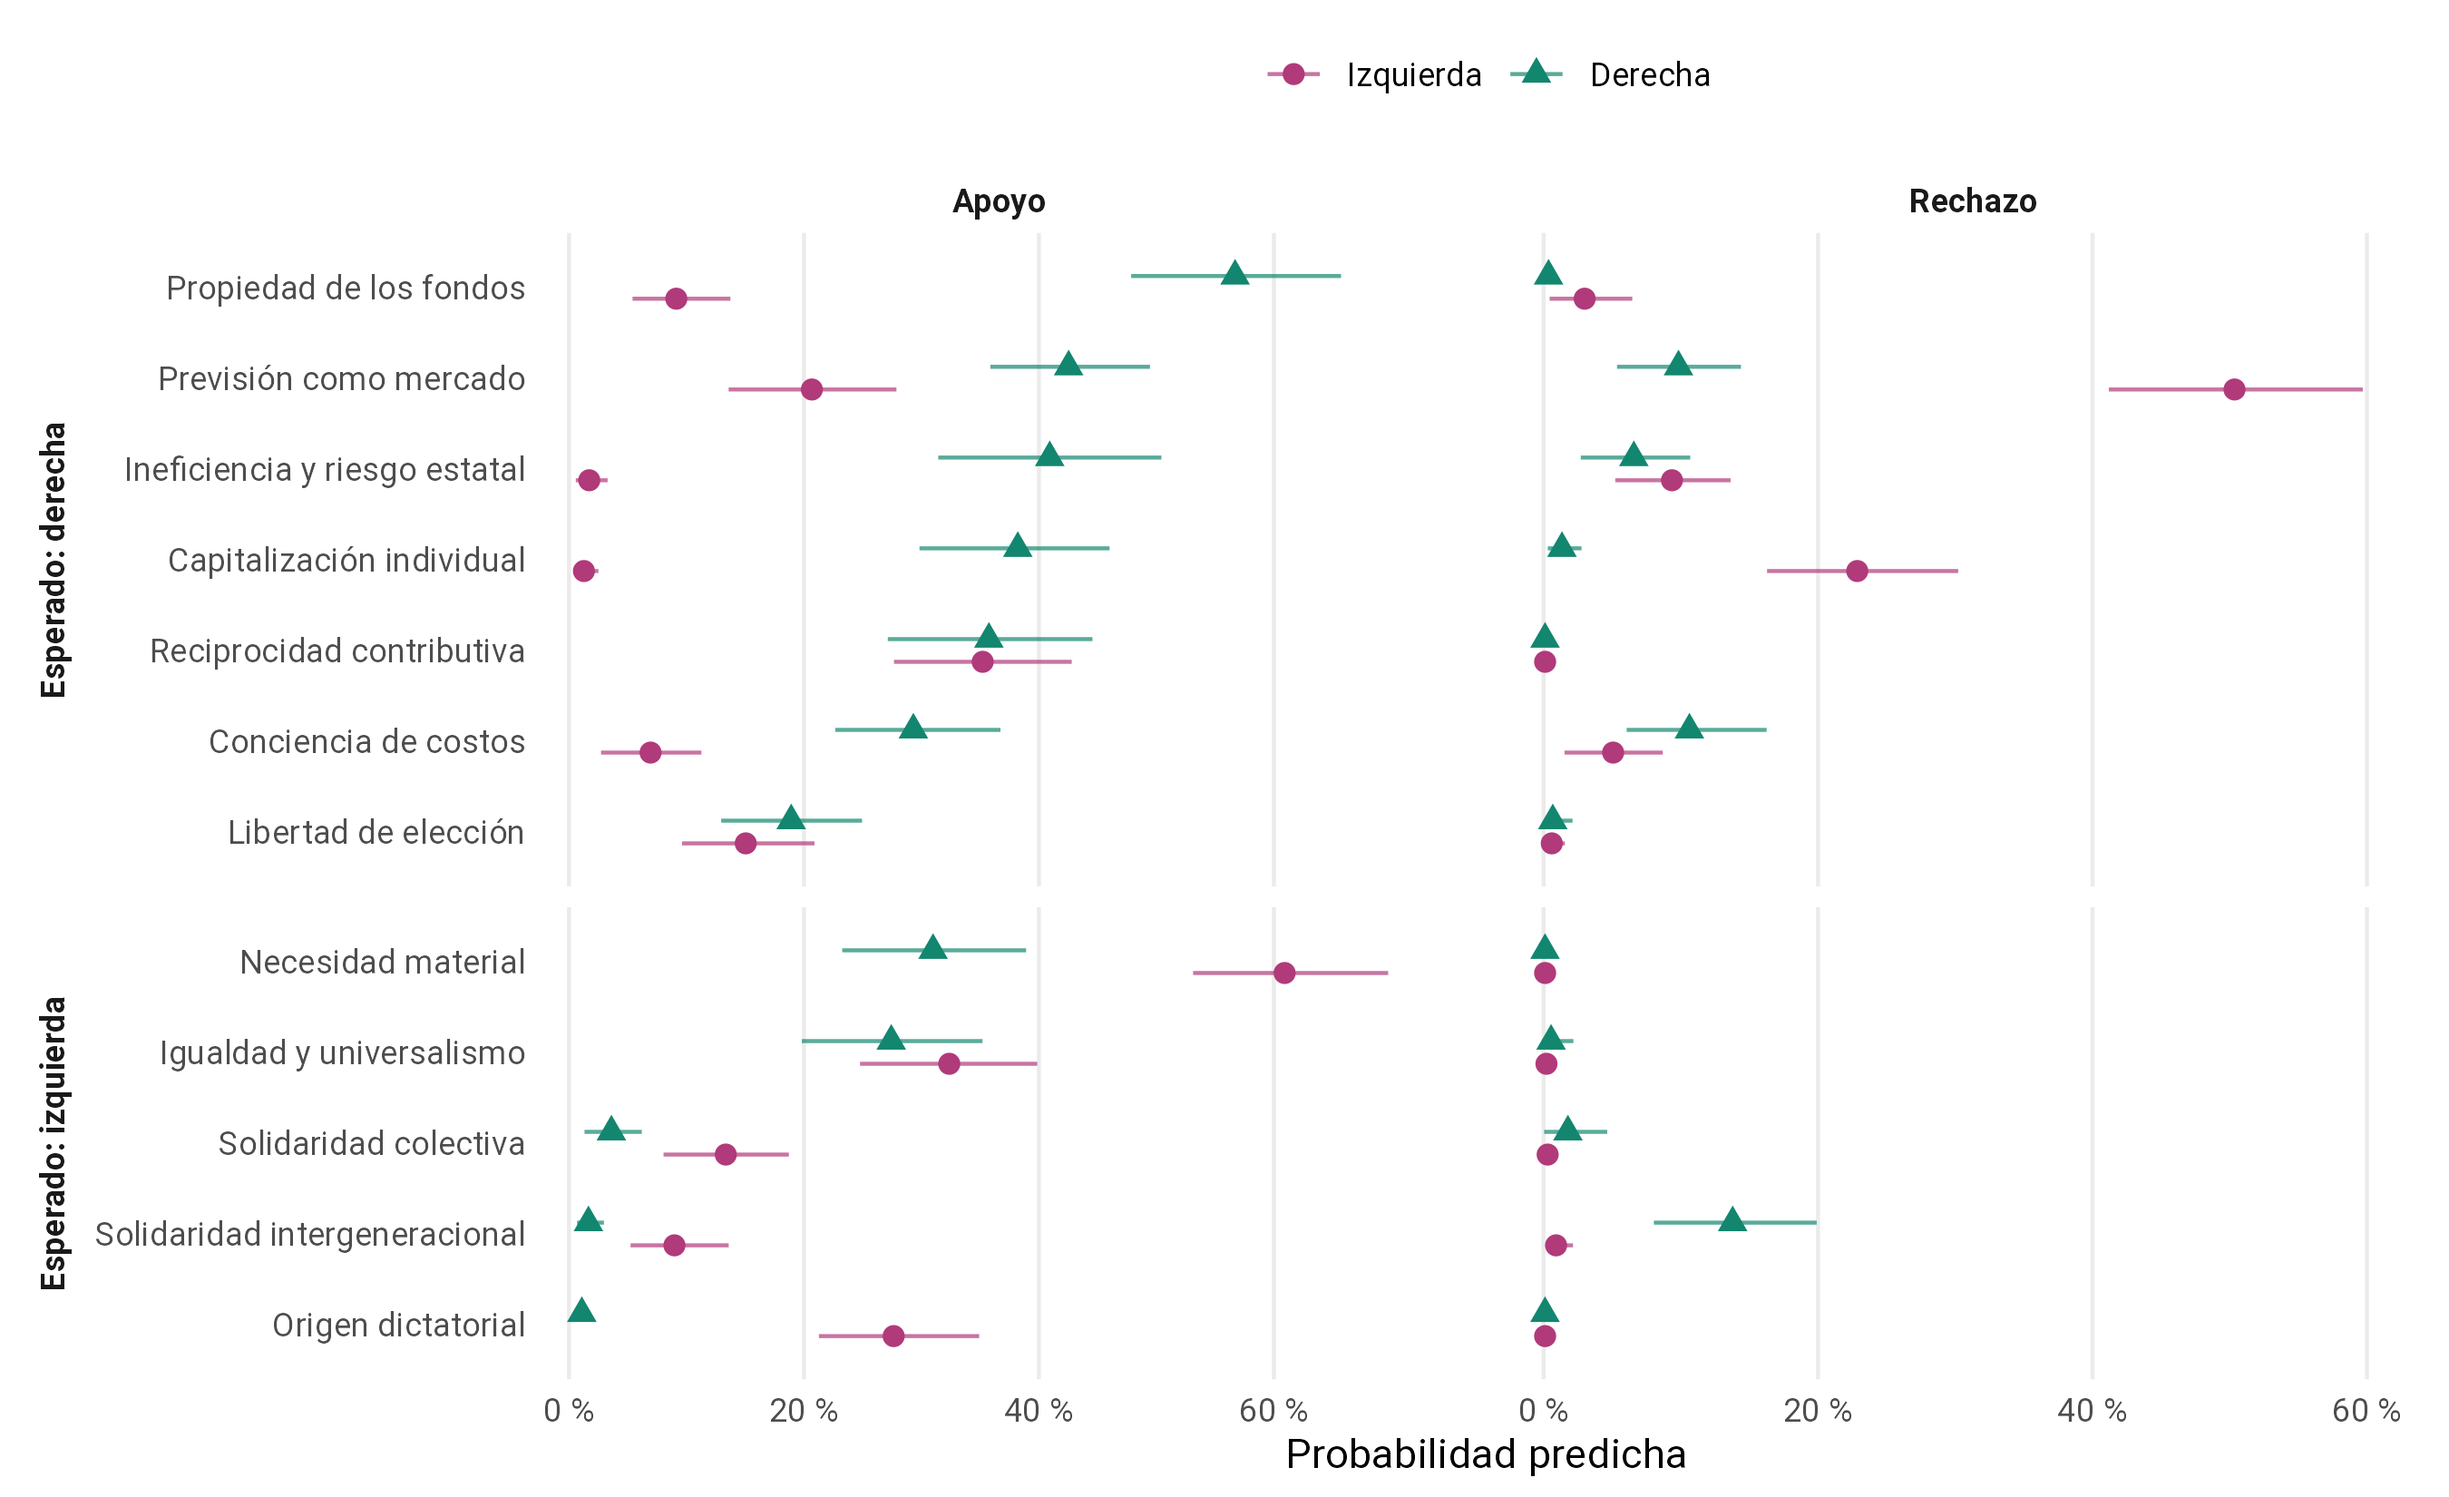
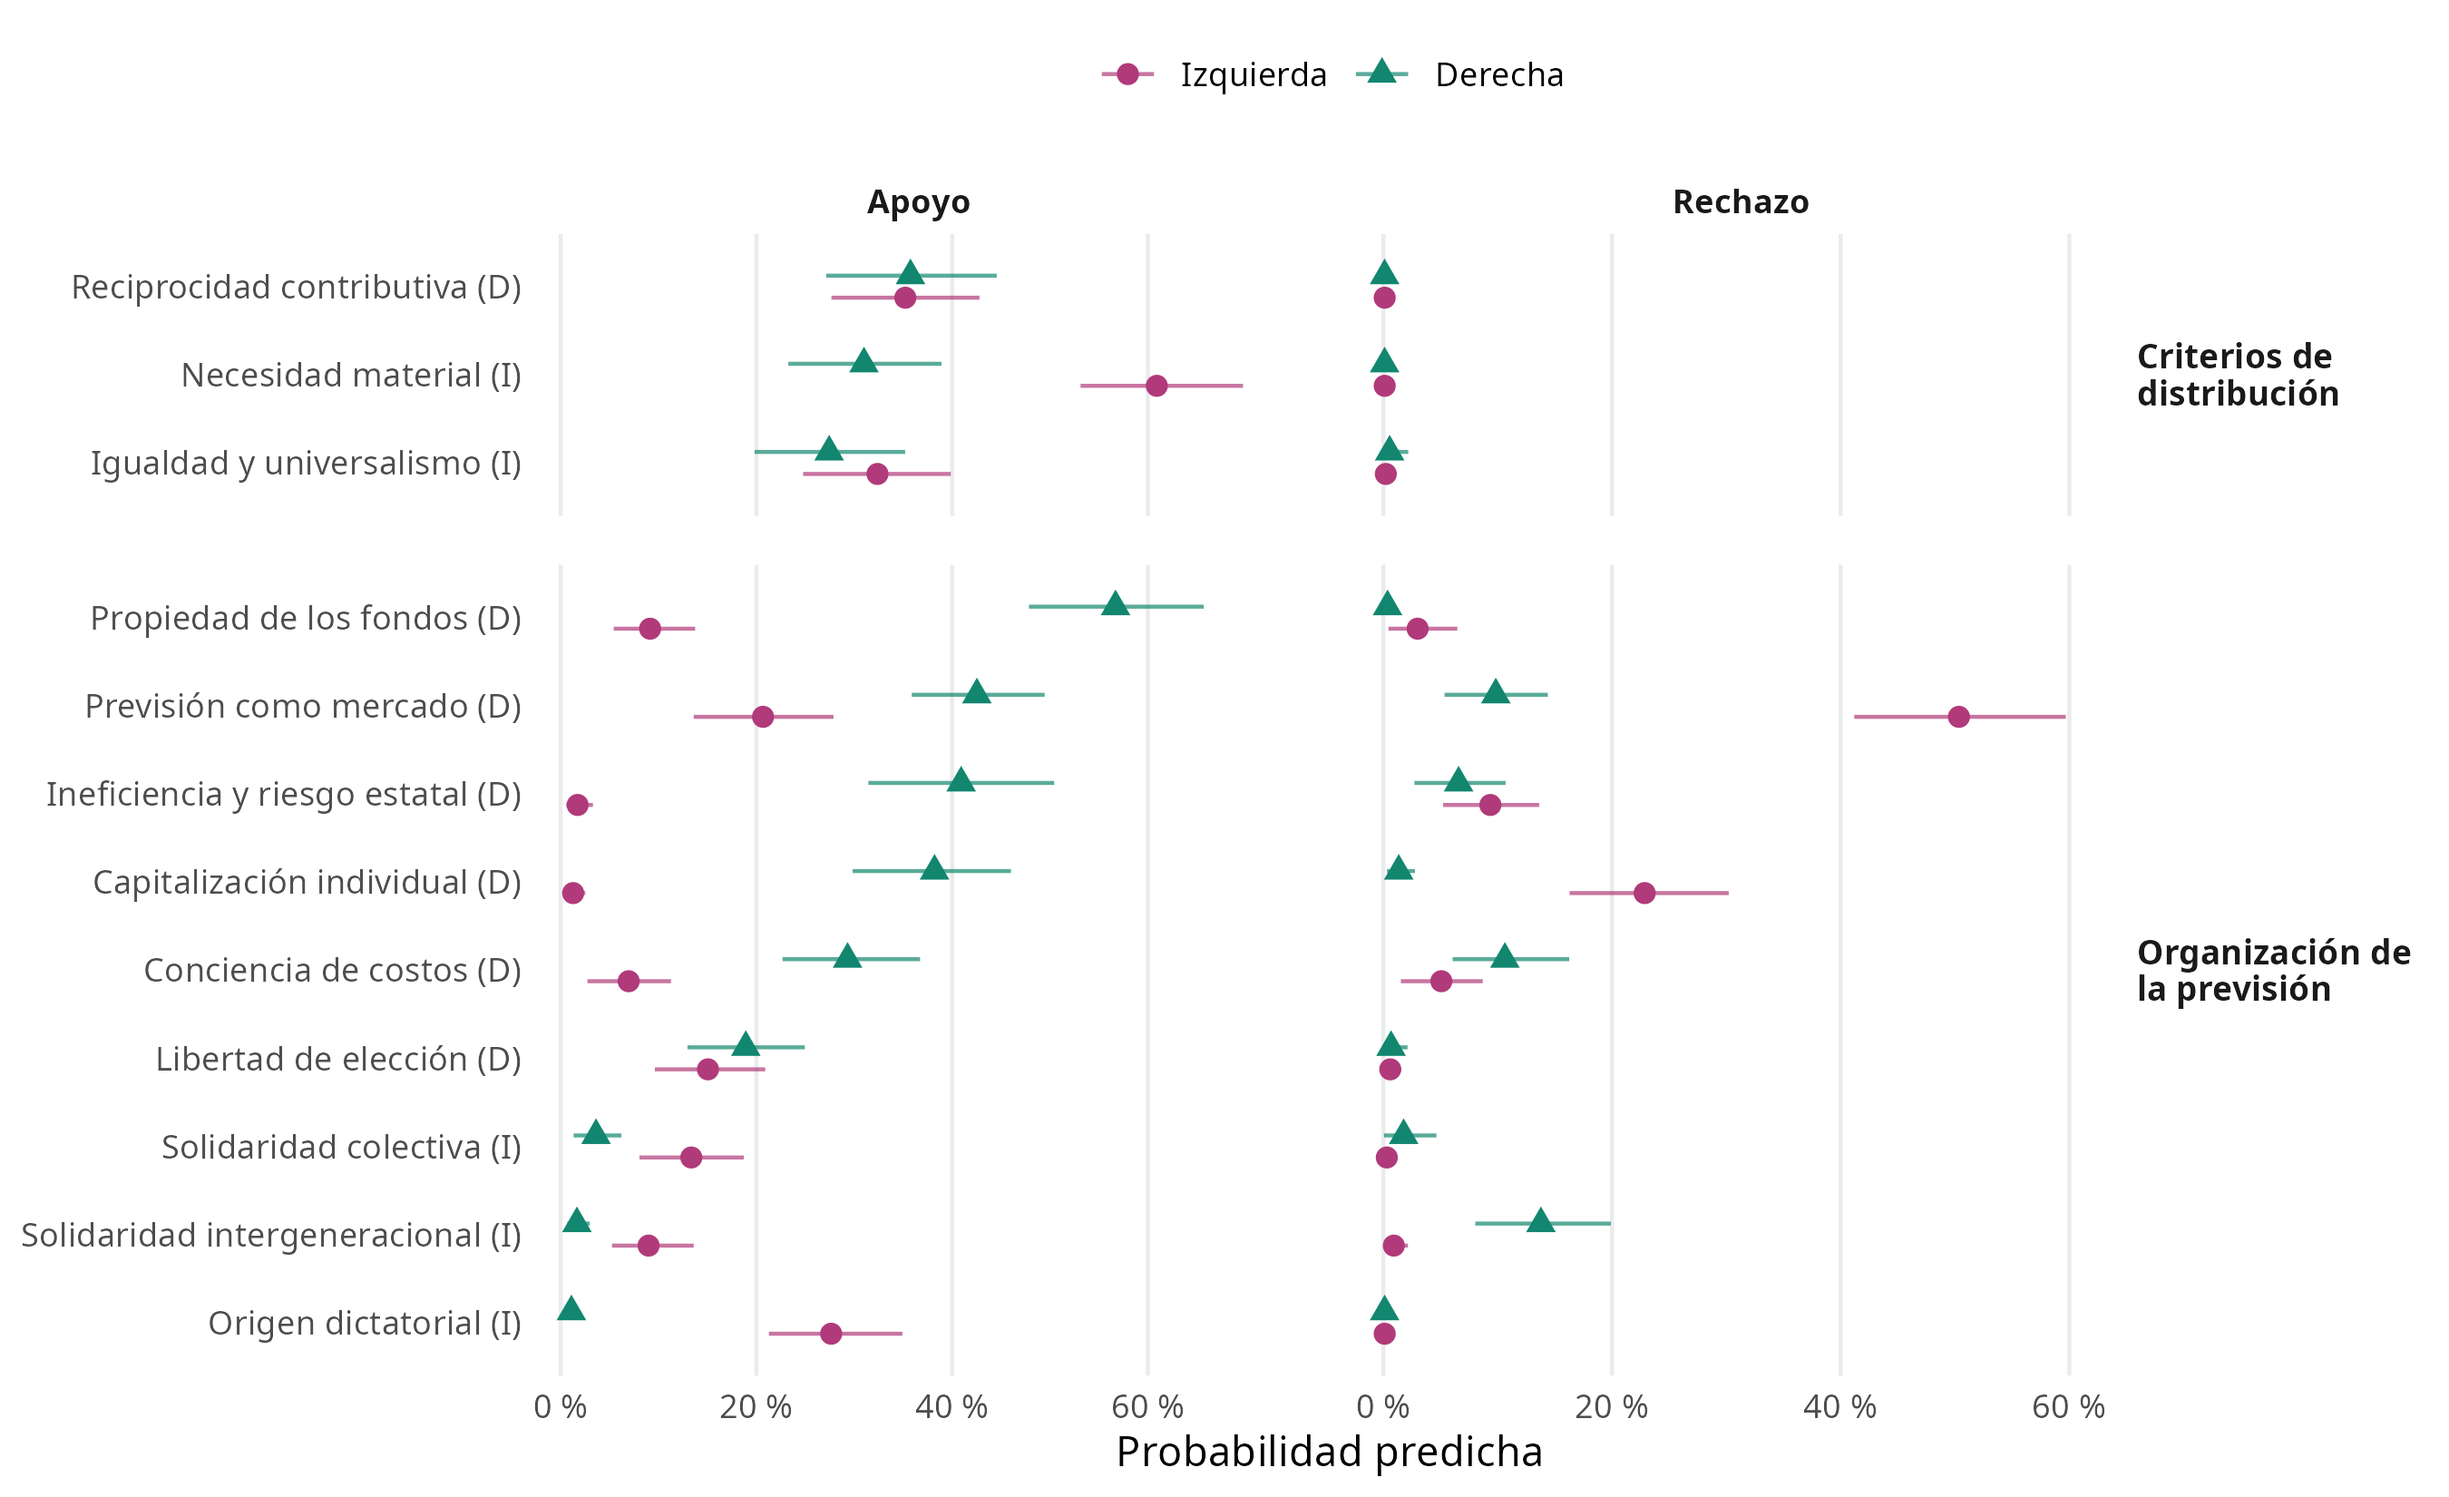
cambio figura h1

diff --git a/thesis.md b/thesis.md
@@ -321,7 +321,7 @@ En primer lugar, se contrasta la hipótesis de bloques políticos, que compara l
 
 ![][image5]
 
-*Nota.* Elaboración propia. Probabilidades predichas con intervalos de confianza del 95 %. Los conceptos se agrupan según el bloque que los apoyaría más de acuerdo con H1. La escala horizontal difiere entre paneles. Las estimaciones se presentan en la Tabla 6 del Anexo III.
+*Nota.* Elaboración propia. Probabilidades predichas con intervalos de confianza del 95 %. Los conceptos se agrupan por tipo de justificación; (D) e (I) indican el bloque que, según H1, apoyaría más el concepto: derecha o izquierda. La escala horizontal difiere entre paneles. Las estimaciones se presentan en la Tabla 6 del Anexo III.
 
 #### *H1a. Criterios de distribución* {#h1a.-criterios-de-distribución}
 
